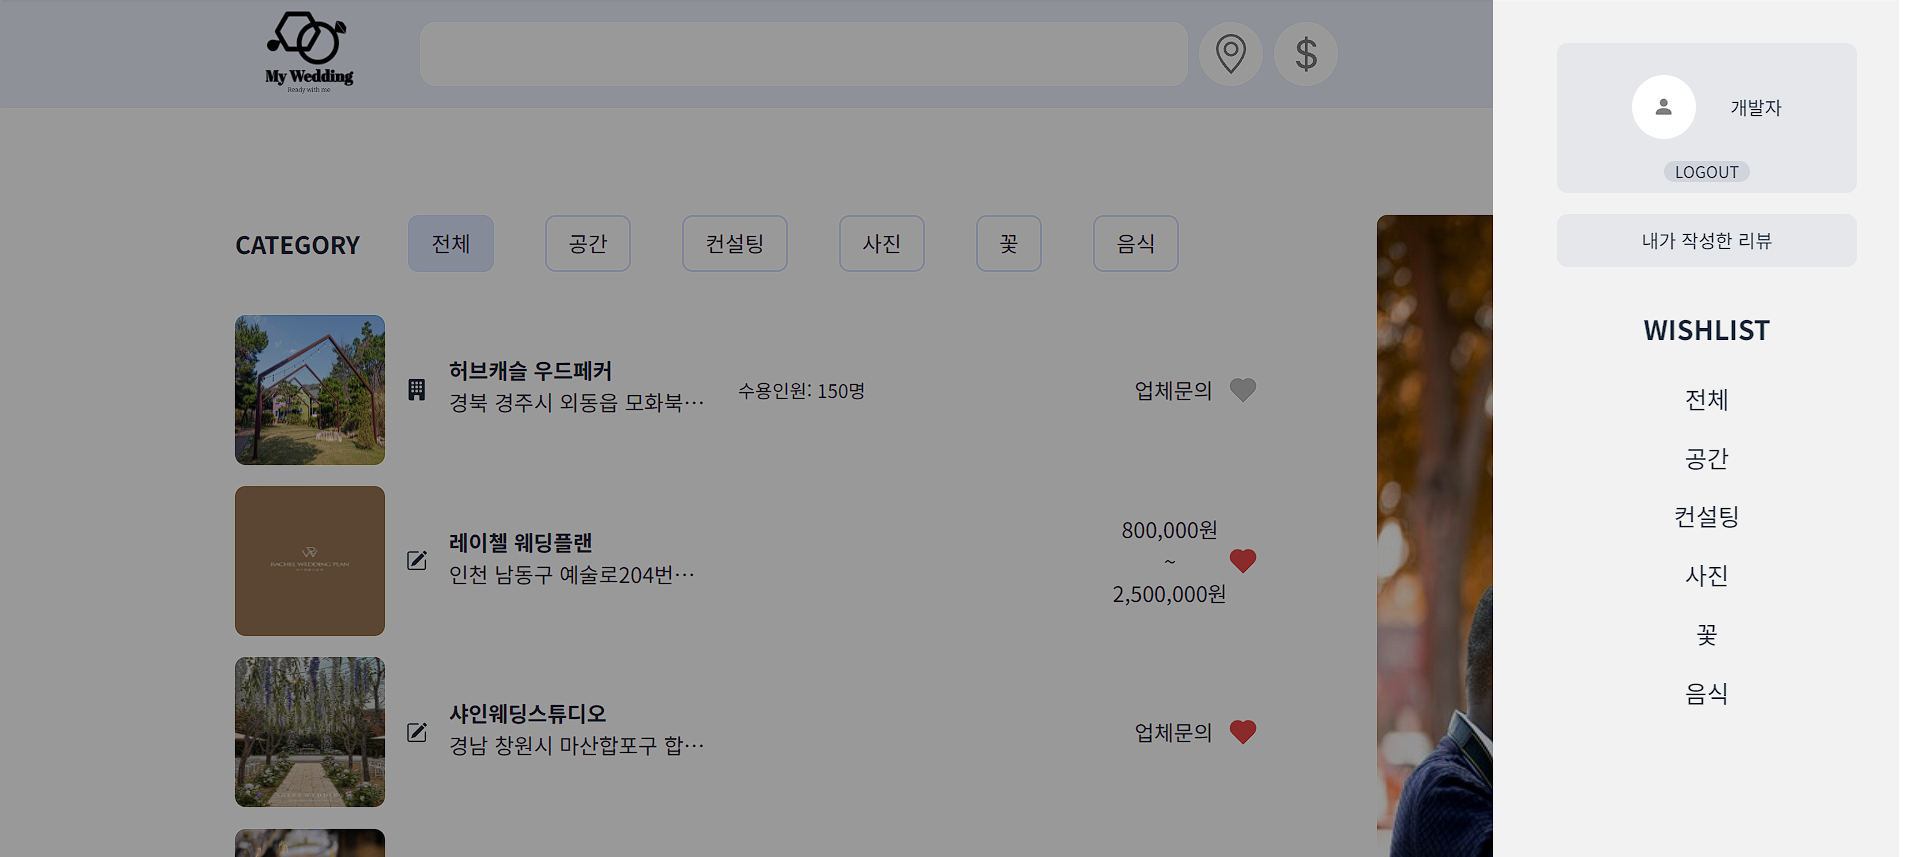
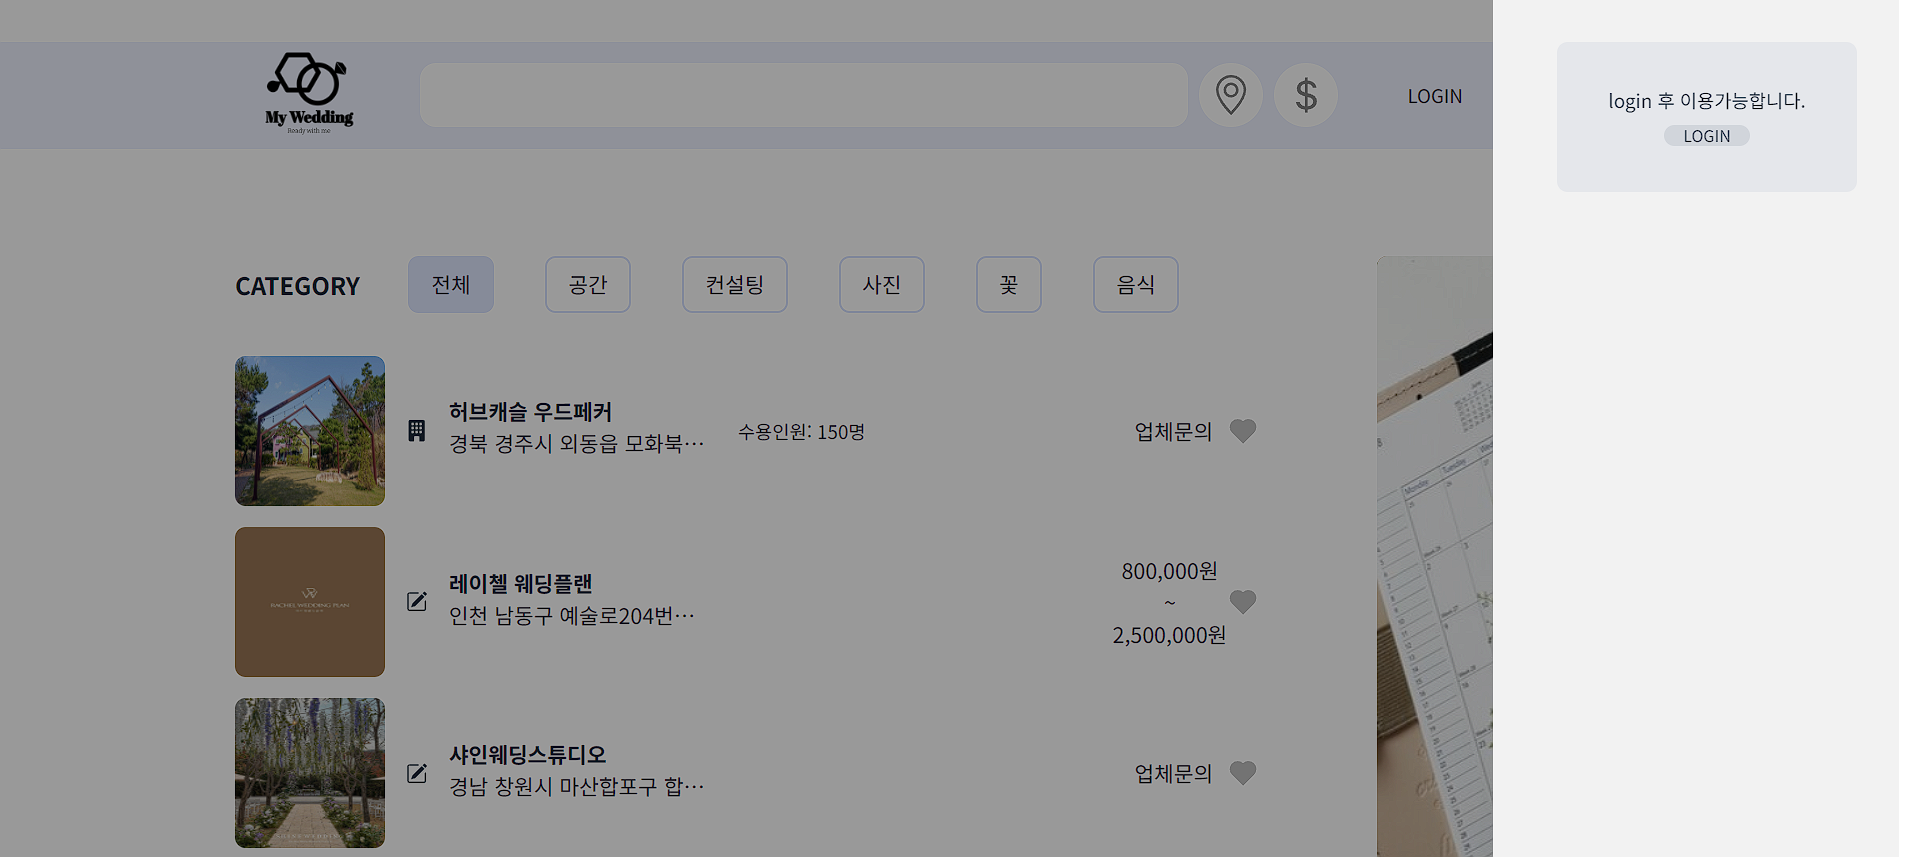
mywedding 프로젝트 페이지 구현 - 브라우저 목업에 튜토리얼처럼 클릭해서 간단하게 사이트 살펴볼 수 있게 구현 - notion페이지와 github페이지 카드 생성 (아직 링크는 연결하지 않음)

diff --git a/src/components/MyWeddingTutorial.tsx b/src/components/MyWeddingTutorial.tsx
@@ -1,0 +1,172 @@
+import { motion } from "framer-motion";
+import { useAtom } from "jotai";
+import { tutorialAtom } from "../store/project";
+
+const MyWeddingTutorial = (): JSX.Element => {
+  const [tutorialIdx, setTutorialIdx] = useAtom(tutorialAtom);
+
+  return (
+    <>
+      {tutorialIdx === 0 && (
+        <div
+          id="wedding_tutorial_0"
+          className="w-full h-[calc(40vw-3.25rem)] absolute right-0 md:top-[15%] pad:top-[12%]"
+        >
+          <div
+            className="w-[8%] h-max relative left-[81%] z-50 cursor-pointer"
+            onClick={() => setTutorialIdx((prev) => prev + 1)}
+          >
+            <span className="loading loading-ring loading-lg w-full text-gray-500"></span>
+          </div>
+          <motion.div
+            initial={{ y: 50, opacity: 0 }}
+            whileInView={{ y: 0, opacity: 1 }}
+            viewport={{ once: true }}
+            transition={{ type: "spring", duration: 1, delay: 0.3 }}
+            className="w-max md:text-xs pad:text-base relative left-1/4 z-50"
+          >
+            깜박이는 곳을 눌러 눌러 유저 사이드바를 열어보세요!
+          </motion.div>
+        </div>
+      )}
+      {tutorialIdx === 1 && (
+        <div
+          id="wedding_tutorial_1"
+          className="w-full h-[calc(40vw-3.25rem)] absolute right-0 md:top-[16%] pad:top-[12%]"
+        >
+          <div
+            className="w-[10%] h-max relative top-4 left-[83%] z-50 cursor-pointer"
+            onClick={() => setTutorialIdx((prev) => prev + 1)}
+          >
+            <span className="loading loading-ring loading-lg w-full text-gray-500"></span>
+          </div>
+          <motion.div
+            initial={{ y: 30, opacity: 0.3 }}
+            animate={{ y: 0, opacity: 1 }}
+            transition={{ type: "spring", duration: 1 }}
+            className="w-max md:text-xs pad:text-base text-black relative bottom-[5%] left-1/4 z-50"
+          >
+            깜박이는 곳을 눌러 로그인 페이지로 이동해보세요!
+          </motion.div>
+        </div>
+      )}
+      {tutorialIdx === 2 && (
+        <div
+          id="wedding_tutorial_2"
+          className="w-full h-[calc(40vw-3.25rem)] absolute right-0 md:top-[16%] pad:top-[12%]"
+        >
+          <div
+            className="w-[10%] h-fit relative top-[75%] left-[37%] z-50 cursor-pointer"
+            onClick={() => setTutorialIdx((prev) => prev + 1)}
+          >
+            <span className="loading loading-ring loading-lg w-full text-gray-500"></span>
+          </div>
+          <motion.div
+            initial={{ y: 30, opacity: 0.3 }}
+            animate={{ y: 0, opacity: 1 }}
+            transition={{ type: "spring", duration: 1 }}
+            className="w-max md:text-xs pad:text-base relative bottom-2 left-5 z-50"
+          >
+            계정이 없다면 회원가입 페이지에서 가입할 수 있어요!
+            <br />
+            회원가입 페이지로 이동해볼까요?
+          </motion.div>
+        </div>
+      )}
+      {tutorialIdx === 3 && (
+        <div
+          id="wedding_tutorial_3"
+          className="w-full h-[calc(40vw-3.25rem)] absolute right-0 md:top-[16%] pad:top-[14%]"
+        >
+          <div
+            className="w-[10%] h-max relative top-[70%] left-[45%] z-50 cursor-pointer"
+            onClick={() => setTutorialIdx((prev) => prev + 1)}
+          >
+            <span className="loading loading-ring loading-lg w-full text-gray-500"></span>
+          </div>
+          <motion.div
+            initial={{ y: 30, opacity: 0.3 }}
+            animate={{ y: 0, opacity: 1 }}
+            transition={{ type: "spring", duration: 1 }}
+            className="w-max md:text-xs pad:text-base relative bottom-8 left-5 z-50"
+          >
+            해당 페이지에서 간단한 정보를 입력하고 회원가입을 할 수 있어요!
+          </motion.div>
+        </div>
+      )}
+      {tutorialIdx === 4 && (
+        <div
+          id="wedding_tutorial_4"
+          className="w-full h-[calc(40vw-3.25rem)] absolute right-0 md:top-[16%] pad:top-[12%]"
+        >
+          <div
+            className="w-[10%] h-max relative top-[68%] left-[20%] z-50 cursor-pointer"
+            onClick={() => setTutorialIdx((prev) => prev + 1)}
+          >
+            <span className="loading loading-ring loading-lg w-full text-gray-500"></span>
+          </div>
+          <motion.div
+            initial={{ y: 30, opacity: 0.3 }}
+            animate={{ y: 0, opacity: 1 }}
+            transition={{ type: "spring", duration: 1 }}
+            className="w-max md:text-xs pad:text-base relative bottom-8 left-[20%] z-50"
+          >
+            가입 후에 유저프로필에서 위시리스트와 내가 작성한 리뷰를 확인할 수 있어요!
+          </motion.div>
+          <motion.div
+            initial={{ y: 30, opacity: 0.3 }}
+            animate={{ y: 0, opacity: 1 }}
+            transition={{ type: "spring", duration: 1, delay: 0.3 }}
+            className="w-max md:text-xs pad:text-base relative top-[20%] left-[5%] z-50"
+          >
+            서비스를 제공하는 사업자 페이지로 이동해볼까요?
+          </motion.div>
+        </div>
+      )}
+      {tutorialIdx === 5 && (
+        <div
+          id="wedding_tutorial_5"
+          className="w-full h-[calc(40vw-3.25rem)] absolute right-0 md:top-[16%] pad:top-[12%]"
+        >
+          <div
+            className="w-[10%] h-max relative top-[85%] left-[10%] z-50 cursor-pointer"
+            onClick={() => setTutorialIdx((prev) => prev + 1)}
+          >
+            <span className="loading loading-ring loading-lg w-full text-gray-500"></span>
+          </div>
+          <motion.div
+            initial={{ y: 30, opacity: 0.3 }}
+            animate={{ y: 0, opacity: 1 }}
+            transition={{ type: "spring", duration: 1 }}
+            className="w-max text-[0.5rem] md:text-xs pad:text-base relative bottom-6 left-[20%] z-50"
+          >
+            이곳에서 서비스를 제공하는 업체의 자세한 정보들을 얻을 수 있습니다
+          </motion.div>
+          <motion.div
+            initial={{ y: 30, opacity: 0.3 }}
+            animate={{ y: 0, opacity: 1 }}
+            transition={{ type: "spring", duration: 1, delay: 0.3 }}
+            className="w-max md:text-xs pad:text-base relative top-[45%] left-[5%] z-50"
+          >
+            리뷰도 작성하고 조회할 수 있어요!
+          </motion.div>
+        </div>
+      )}
+      {tutorialIdx === 6 && (
+        <div
+          id="wedding_tutorial_6"
+          className="w-full h-[calc(40vw-3.25rem)] absolute right-0 md:top-[16%] pad:top-[12%]"
+        >
+          <button className="btn btn-xs sm:btn-sm md:btn-md lg:btn-lg relative top-[35%] left-[38%] z-50">
+            배포 사이트 보러가기
+          </button>
+          <div className="w-[30%] h-max relative bottom-[5%] left-[34%] xl:left-[32%] z-40 cursor-pointer">
+            <span className="loading loading-ring loading-lg w-full text-gray-500"></span>
+          </div>
+        </div>
+      )}
+    </>
+  );
+};
+
+export default MyWeddingTutorial;

diff --git a/src/components/MyWeddingProject.tsx b/src/components/MyWeddingProject.tsx
@@ -1,0 +1,66 @@
+import { motion } from "framer-motion";
+import MyWeddingSlide from "./MyWeddingSlide";
+import MyWeddingTutorial from "./MyWeddingTutorial";
+import NOTION_IMG from "../assets/image/project_screen/my_wedding/MYWEDDING_NOTION.png";
+import GITHUB_IMG from "../assets/image/project_screen/my_wedding/MYWEDDING_GITHUB.png";
+
+const MyWeddingProject = (): JSX.Element => {
+  return (
+    <>
+      <motion.header
+        initial={{ y: 50, opacity: 0.3 }}
+        animate={{ y: 0, opacity: 1 }}
+        transition={{ type: "spring", duration: 1 }}
+        className="w-full flex flex-col items-start px-20 mt-40 mb-56 justify-self-start"
+      >
+        <p>SINGLE PROJECT</p>
+        <h2 className="text-7xl font-extrabold">MY WEDDING</h2>
+      </motion.header>
+      <div className="w-screen bg-base-200 flex justify-center items-center">
+        <motion.div
+          initial={{ y: 50, opacity: 0 }}
+          whileInView={{ y: 0, opacity: 1 }}
+          viewport={{ once: true }}
+          transition={{ type: "spring", duration: 1, delay: 0.3 }}
+          className="mockup-browser border border-solid border-2 border-base-300 bg-base-300 w-4/5 h-[40vw] overflow-hidden my-80"
+        >
+          <div className="mockup-browser-toolbar">
+            <div className="input">https://my-wedding-app.vercel.app/</div>
+          </div>
+          <div className="w-full h-[calc(40vw-3.25rem)] bg-base-200 overflow-hidden" id="myWeddingScreen">
+            <MyWeddingSlide />
+          </div>
+          <MyWeddingTutorial />
+        </motion.div>
+      </div>
+      <div className="project-detail w-4/5 flex justify-between items-center mt-40">
+        <div className="card w-96 h-[80vh] bg-base-100 shadow-xl">
+          <figure>
+            <img src={NOTION_IMG} alt="MyWedding 프로젝트 노션" className="h-[40vh]" />
+          </figure>
+          <div className="card-body">
+            <h2 className="card-title">Notion</h2>
+            <p>My Wedding 프로젝트의 기획 및 진행에 대한 전반적인 과정을 알 수 있는 노션 페이지입니다.</p>
+            <div className="card-actions justify-center">
+              <button className="btn btn-md w-[30%]">Notion으로</button>
+            </div>
+          </div>
+        </div>
+        <div className="card w-96 h-[80vh] bg-base-100 shadow-xl">
+          <figure>
+            <img src={GITHUB_IMG} alt="MyWedding 프로젝트 github" className="h-[40vh]" />
+          </figure>
+          <div className="card-body">
+            <h2 className="card-title">GitHub</h2>
+            <p>My Wedding 프로젝트의 구체적인 코드구성을 알 수 있는 GitHub 페이지입니다.</p>
+            <div className="card-actions justify-center">
+              <button className="btn btn-md w-[30%]">GitHub으로</button>
+            </div>
+          </div>
+        </div>
+      </div>
+    </>
+  );
+};
+
+export default MyWeddingProject;

diff --git a/src/components/Project.tsx b/src/components/Project.tsx
@@ -1,20 +1,38 @@
-import MyWeddingSlide from "./MyWeddingSlide";
+import { useAtom } from "jotai";
+import MyWeddingProject from "./MyWeddingProject";
+import { projectAtom } from "../store/project";
+import ReactShopProject from "./ReactShopProject";
 
 const Project = (): JSX.Element => {
+  const [projectState, setProject] = useAtom(projectAtom);
+
   return (
     <div className="w-screen max-w-[1149px] flex flex-col justify-center items-center pb-32">
-      <header className="w-full flex flex-col items-start px-20 mt-16 mb-80 justify-self-start">
-        <p>CLONE CODING</p>
-        <h2 className="text-7xl font-extrabold">REACT SHOP</h2>
-      </header>
-      <div className="mockup-browser border bg-base-300 w-4/5 h-[35vw]">
-        <div className="mockup-browser-toolbar">
-          <div className="input">https://react-shop-geunana.vercel.app/</div>
-        </div>
-        <div className="h-full flex justify-center pb-12 bg-base-200">
-          <MyWeddingSlide />
-        </div>
+      <div className="w-full flex justify-center items-center mb-8">
+        <button
+          className={`btn btn-xs sm:btn-sm md:btn-md ${projectState === "ReactShop" && "btn-active"} btn-ghost text-center`}
+          onClick={() => setProject("ReactShop")}
+        >
+          REACT SHOP
+        </button>
+        <div className="divider divider-horizontal m-0"></div>
+        <button
+          className={`btn btn-xs sm:btn-sm md:btn-md ${projectState === "MyWedding" && "btn-active"} btn-ghost text-center`}
+          onClick={() => setProject("MyWedding")}
+        >
+          MY WEDDING
+        </button>
+        <div className="divider divider-horizontal m-0"></div>
+        <button
+          className={`btn btn-xs sm:btn-sm md:btn-md ${projectState === "TeamProject" && "btn-active"} btn-ghost text-center`}
+          onClick={() => setProject("TeamProject")}
+        >
+          TEAM PROJECT
+        </button>
       </div>
+      {projectState === "MyWedding" && <MyWeddingProject />}
+      {projectState === "ReactShop" && <ReactShopProject />}
+      {projectState === "TeamProject" && <></>}
     </div>
   );
 };

diff --git a/src/components/MyWeddingSlide.tsx b/src/components/MyWeddingSlide.tsx
@@ -1,11 +1,40 @@
 import MAIN_PAGE from "../assets/image/project_screen/my_wedding/MYWEDDING_MAIN.png";
+import PROFILESIDEBAR_PAGE from "../assets/image/project_screen/my_wedding/MYWEDDING_PROFILESIDEBAR.png";
+import LOGIN_PAGE from "../assets/image/project_screen/my_wedding/MYWEDDING_LOGIN.png";
+import SIGNUP_PAGE from "../assets/image/project_screen/my_wedding/MYWEDDING_SIGNUP.png";
+import USERPROFILE_PAGE from "../assets/image/project_screen/my_wedding/MYWEDDING_USERPROFILE.png";
+import BUSINESSITEM_PAGE from "../assets/image/project_screen/my_wedding/MYWEDDING_BUSINESSITEM.png";
+import REVIEW_PAGE from "../assets/image/project_screen/my_wedding/MYWEDDING_REVIEW.png";
+import { useAtomValue } from "jotai";
+import { tutorialAtom } from "../store/project";
+
+const slides = [
+  MAIN_PAGE,
+  PROFILESIDEBAR_PAGE,
+  LOGIN_PAGE,
+  SIGNUP_PAGE,
+  USERPROFILE_PAGE,
+  BUSINESSITEM_PAGE,
+  REVIEW_PAGE,
+];
 
 const MyWeddingSlide = (): JSX.Element => {
-  // todo : 캐러셀 아래로 스크롤 시 작동하도록
+  const tutorialIdx = useAtomValue(tutorialAtom);
 
   return (
     <>
-      <img src={MAIN_PAGE} className="w-full object-fill"></img>
+      <ol className="size-full overflow-x-hidden">
+        {slides.map((imgSrc, idx) => {
+          let slideClass = "";
+          if (idx === tutorialIdx) slideClass = "z-10";
+
+          return (
+            <li key={`myWedding_${idx}`} id={`myWedding_${idx}`} className={`size-full absolute ${slideClass}`}>
+              <img src={imgSrc} className={`w-full h-[calc(40vw-3.25rem)]`}></img>
+            </li>
+          );
+        })}
+      </ol>
     </>
   );
 };

diff --git a/src/components/ReactShopSlide.tsx b/src/components/ReactShopSlide.tsx
@@ -1,0 +1,23 @@
+// import MAIN_PAGE from "../assets/image/project_screen/my_wedding/MYWEDDING_MAIN.png";
+// import PROFILESIDEBAR_PAGE from "../assets/image/project_screen/my_wedding/MYWEDDING_PROFILESIDEBAR.png";
+// import SIGNUP_PAGE from "../assets/image/project_screen/my_wedding/MYWEDDING_SIGNUP.png";
+// import LOGIN_PAGE from "../assets/image/project_screen/my_wedding/MYWEDDING_LOGIN.png";
+// import USERPROFILE_PAGE from "../assets/image/project_screen/my_wedding/MYWEDDING_USERPROFILE.png";
+// import BUSINESSITEM_PAGE from "../assets/image/project_screen/my_wedding/MYWEDDING_BUSINESSITEM.png";
+// import REVIEW_PAGE from "../assets/image/project_screen/my_wedding/MYWEDDING_REVIEW.png";
+
+// const slides = [
+//   MAIN_PAGE,
+//   PROFILESIDEBAR_PAGE,
+//   SIGNUP_PAGE,
+//   LOGIN_PAGE,
+//   USERPROFILE_PAGE,
+//   BUSINESSITEM_PAGE,
+//   REVIEW_PAGE,
+// ];
+
+const ReactShopSlide = (): JSX.Element => {
+  return <></>;
+};
+
+export default ReactShopSlide;

diff --git a/src/components/Introduce.tsx b/src/components/Introduce.tsx
@@ -45,7 +45,7 @@ const Introduce = (): JSX.Element => {
         initial={{ opacity: 0, y: 100 }}
         whileInView={{ opacity: 1, y: 0 }}
         viewport={{ once: true }}
-        transition={{ type: "spring", delay: 0.5, duration: 0.5 }}
+        transition={{ type: "spring", delay: 0.2, duration: 0.5 }}
         className="flex justify-center items-center"
       >
         <img src={PORTFOLIO_THUMBNAIL} className="w-4/5 border-2 border-solid rounded-lg" />

diff --git a/src/store/project.ts b/src/store/project.ts
@@ -1,0 +1,7 @@
+import { atom } from "jotai";
+
+type projectType = "MyWedding" | "ReactShop" | "TeamProject";
+const initialIdx = 0;
+
+export const projectAtom = atom<projectType>("MyWedding");
+export const tutorialAtom = atom<number>(initialIdx);

diff --git a/src/index.css b/src/index.css
@@ -23,3 +23,11 @@ body {
     "Helvetica Neue",
     sans-serif;
 }
+
+.hidden-scroll {
+  -ms-overflow-style: none; /* 인터넷 익스플로러 */
+  scrollbar-width: none;
+}
+.hidden-scroll::-webkit-scrollbar {
+  display: none;
+}

diff --git a/src/components/ReactShopTutorial.tsx b/src/components/ReactShopTutorial.tsx
@@ -1,0 +1,5 @@
+const ReactShopTutorial = (): JSX.Element => {
+  return <></>;
+};
+
+export default ReactShopTutorial;

diff --git a/src/components/ReactShopProject.tsx b/src/components/ReactShopProject.tsx
@@ -1,0 +1,5 @@
+const ReactShopProject = (): JSX.Element => {
+  return <></>;
+};
+
+export default ReactShopProject;
